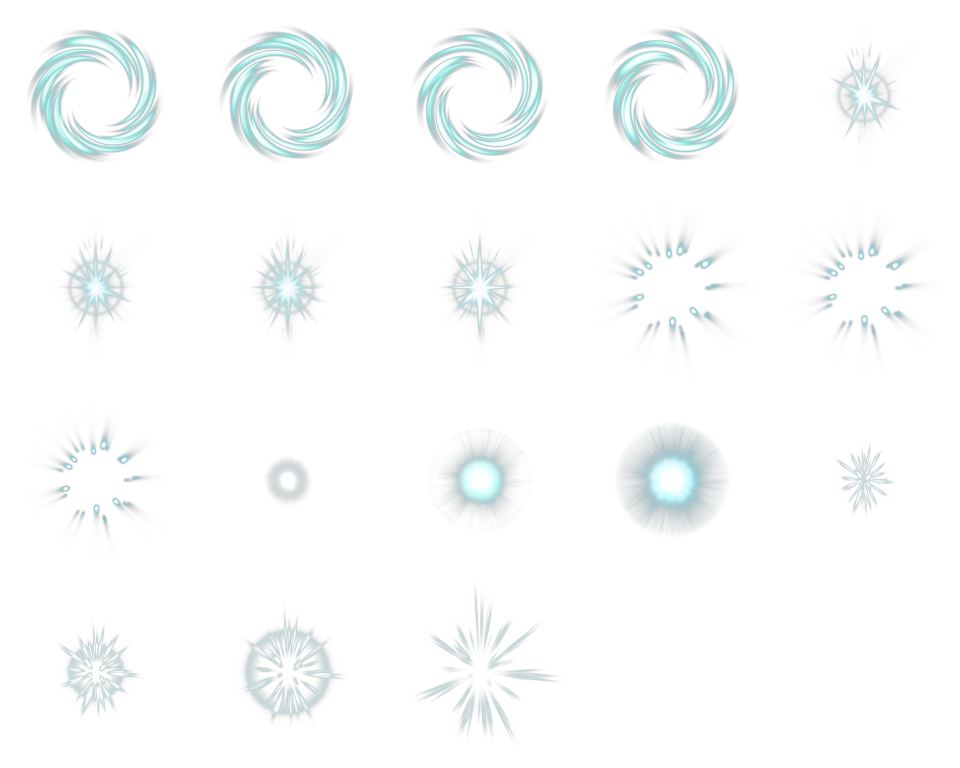
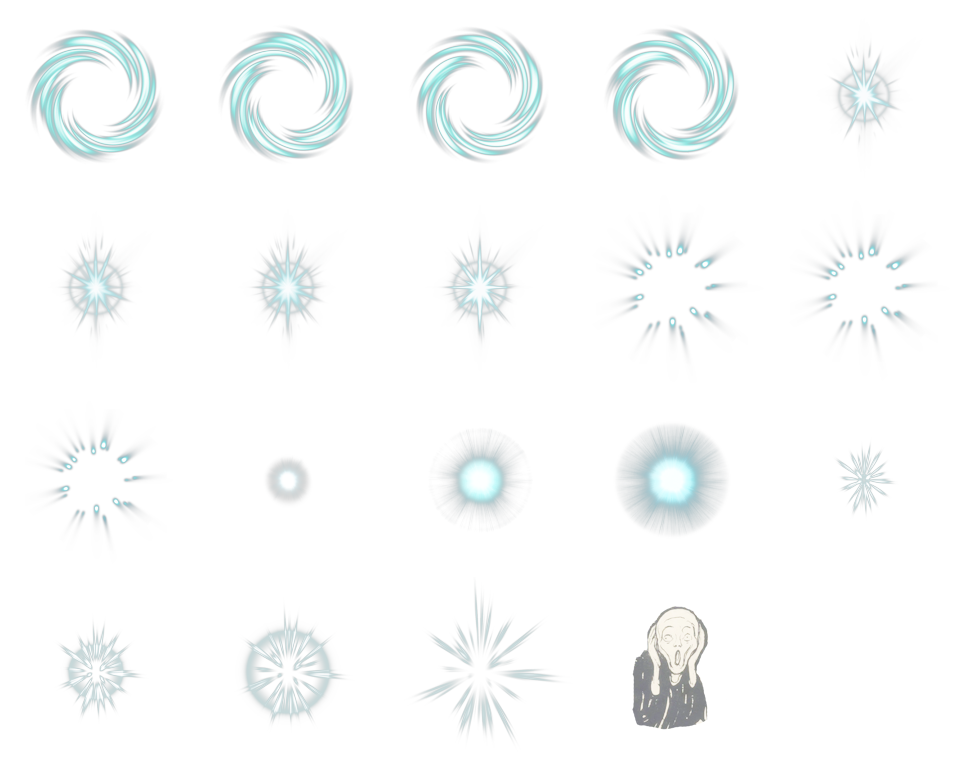
技能动画

Changed region(s): [[0.6562, 0.7812, 0.75, 0.9688]]

diff --git a/Readme.md b/Readme.md
@@ -22,7 +22,8 @@
 
 
 ## 更新记录
--**2022/8/6**；**不明枪兵**；增加星港地图，调整碰撞，增加传送事件调整地图联系
+- **2022/8/6**；**不明枪兵**；增加尖叫技能动画
+- **2022/8/6**；**不明枪兵**；增加星港地图，调整碰撞，增加传送事件调整地图联系
 - **2022/8/6**；**不明枪兵**；增加纳萨托恩特效
 - **2022/8/5**；**不明枪兵**；增加梦位面宇宙背景图
 - **2022/8/5**；**面具**；技能优化和角色平衡，怪物技能写入部分
